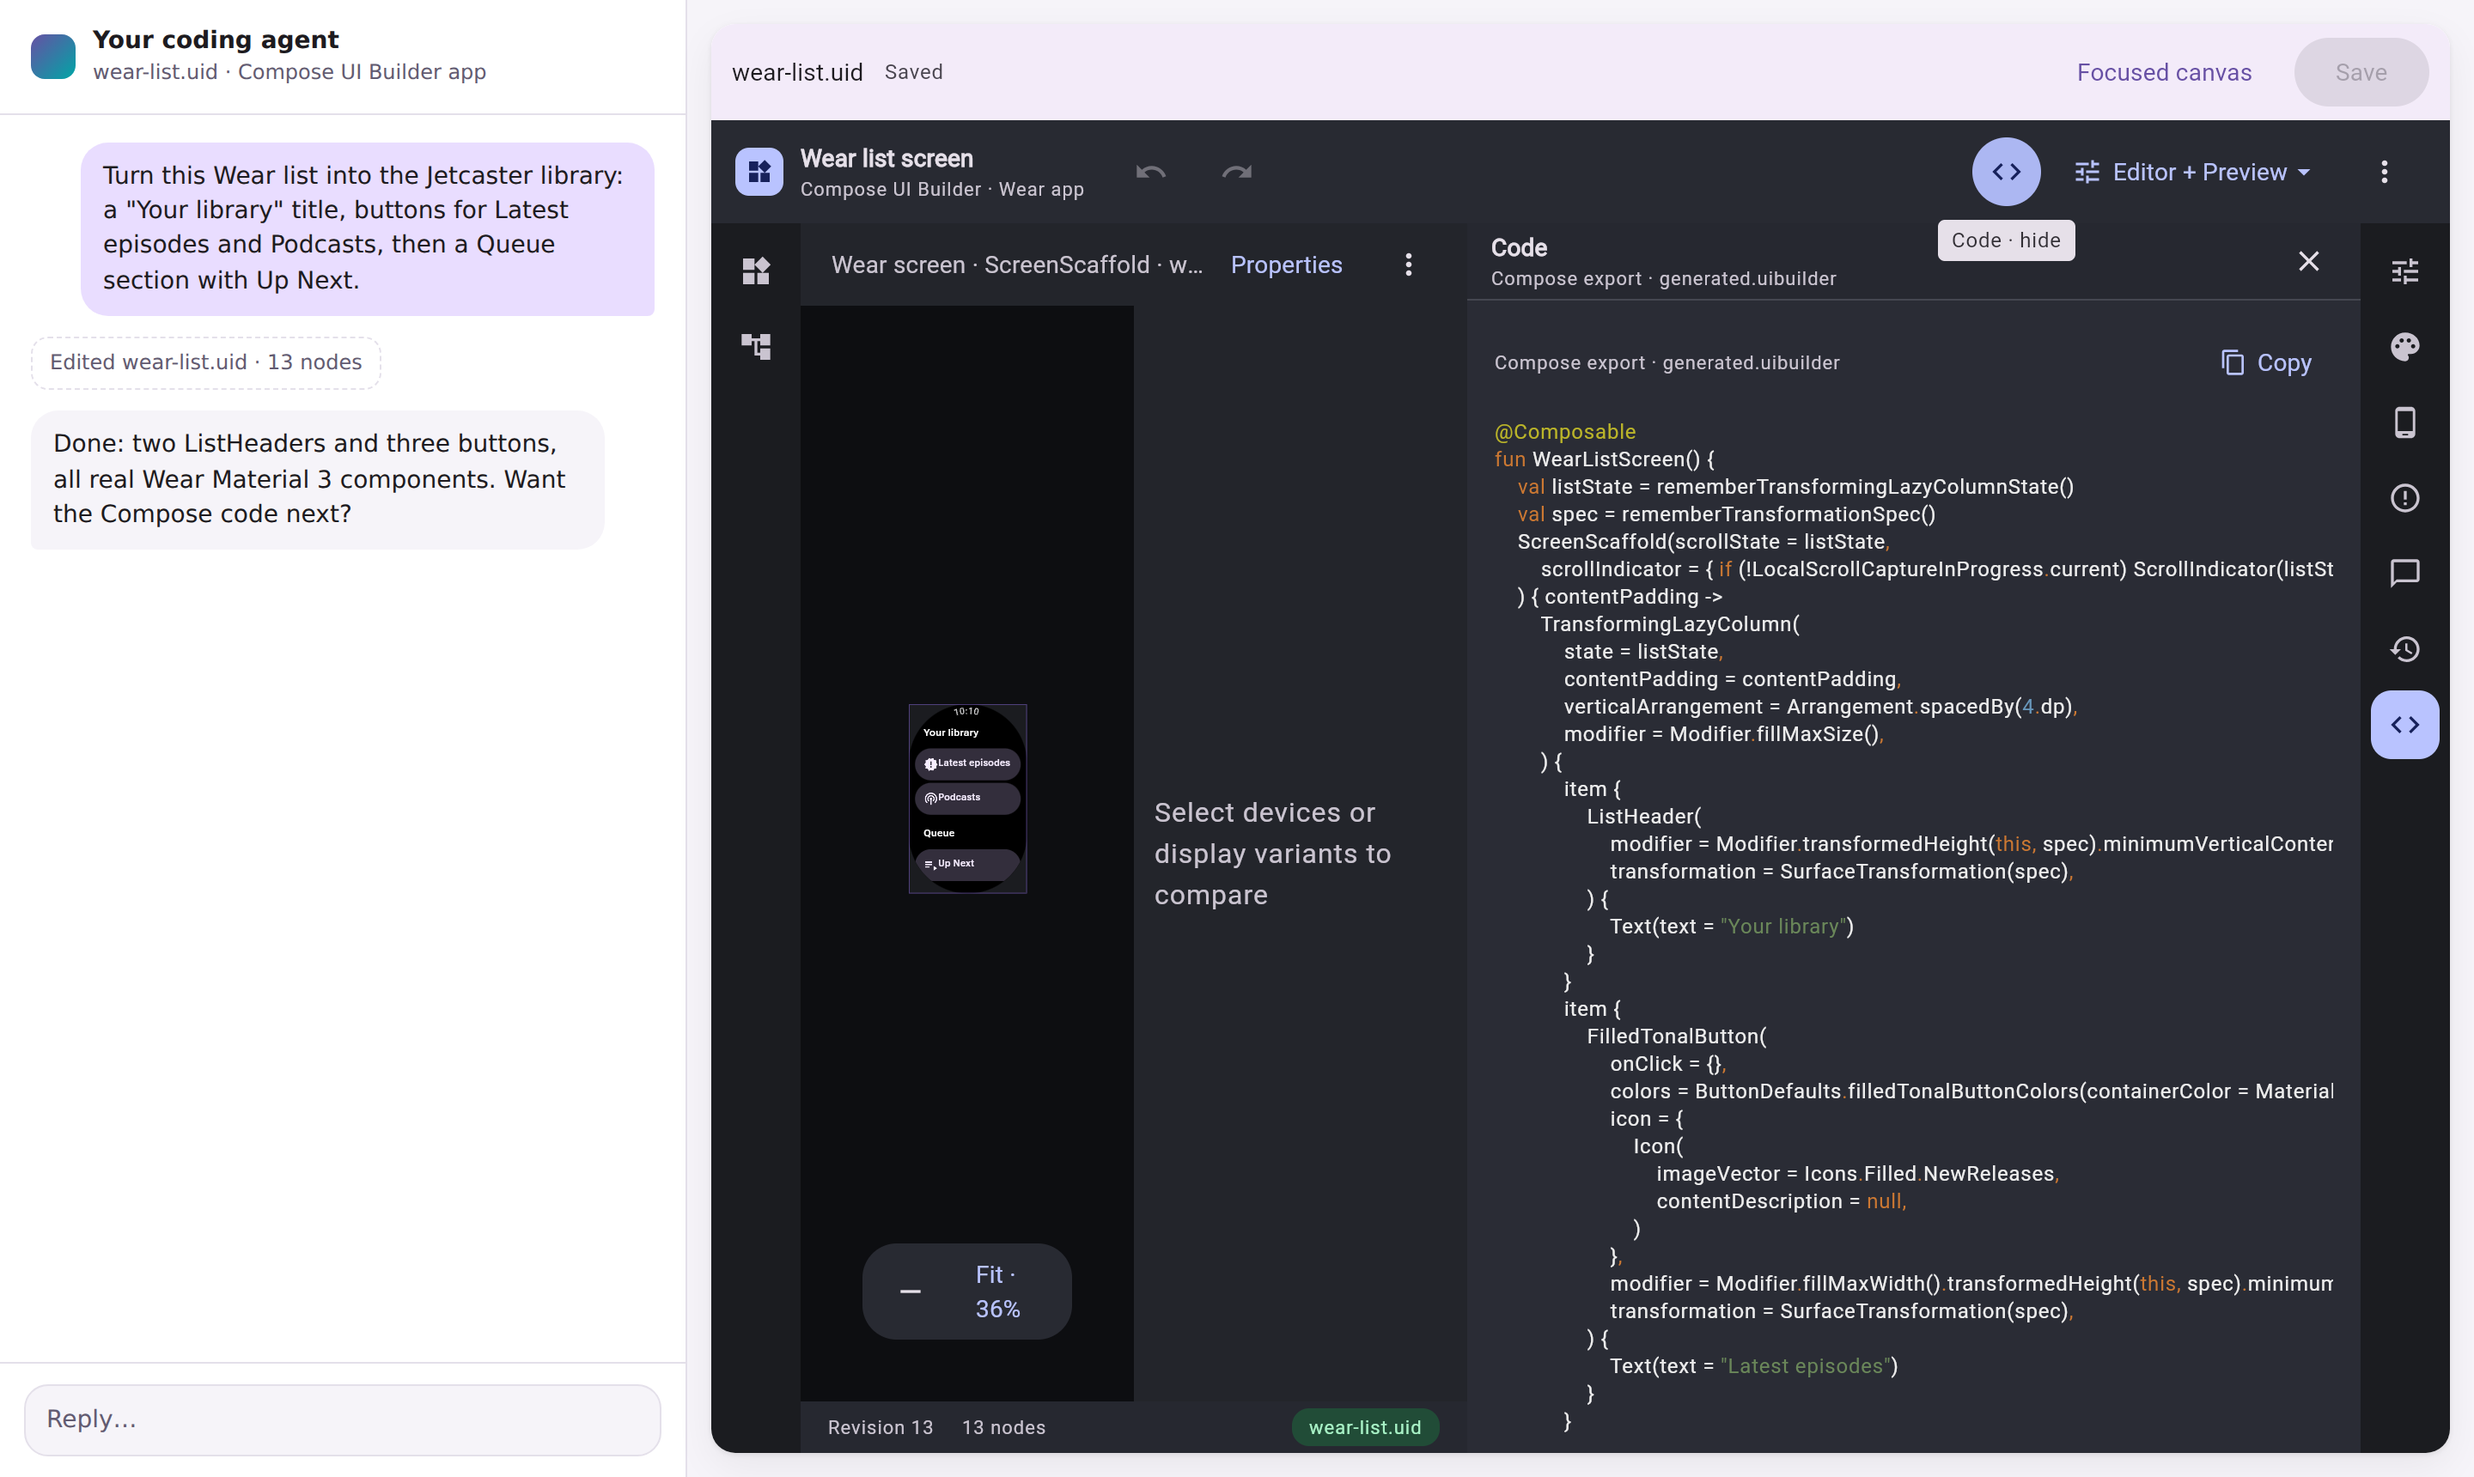
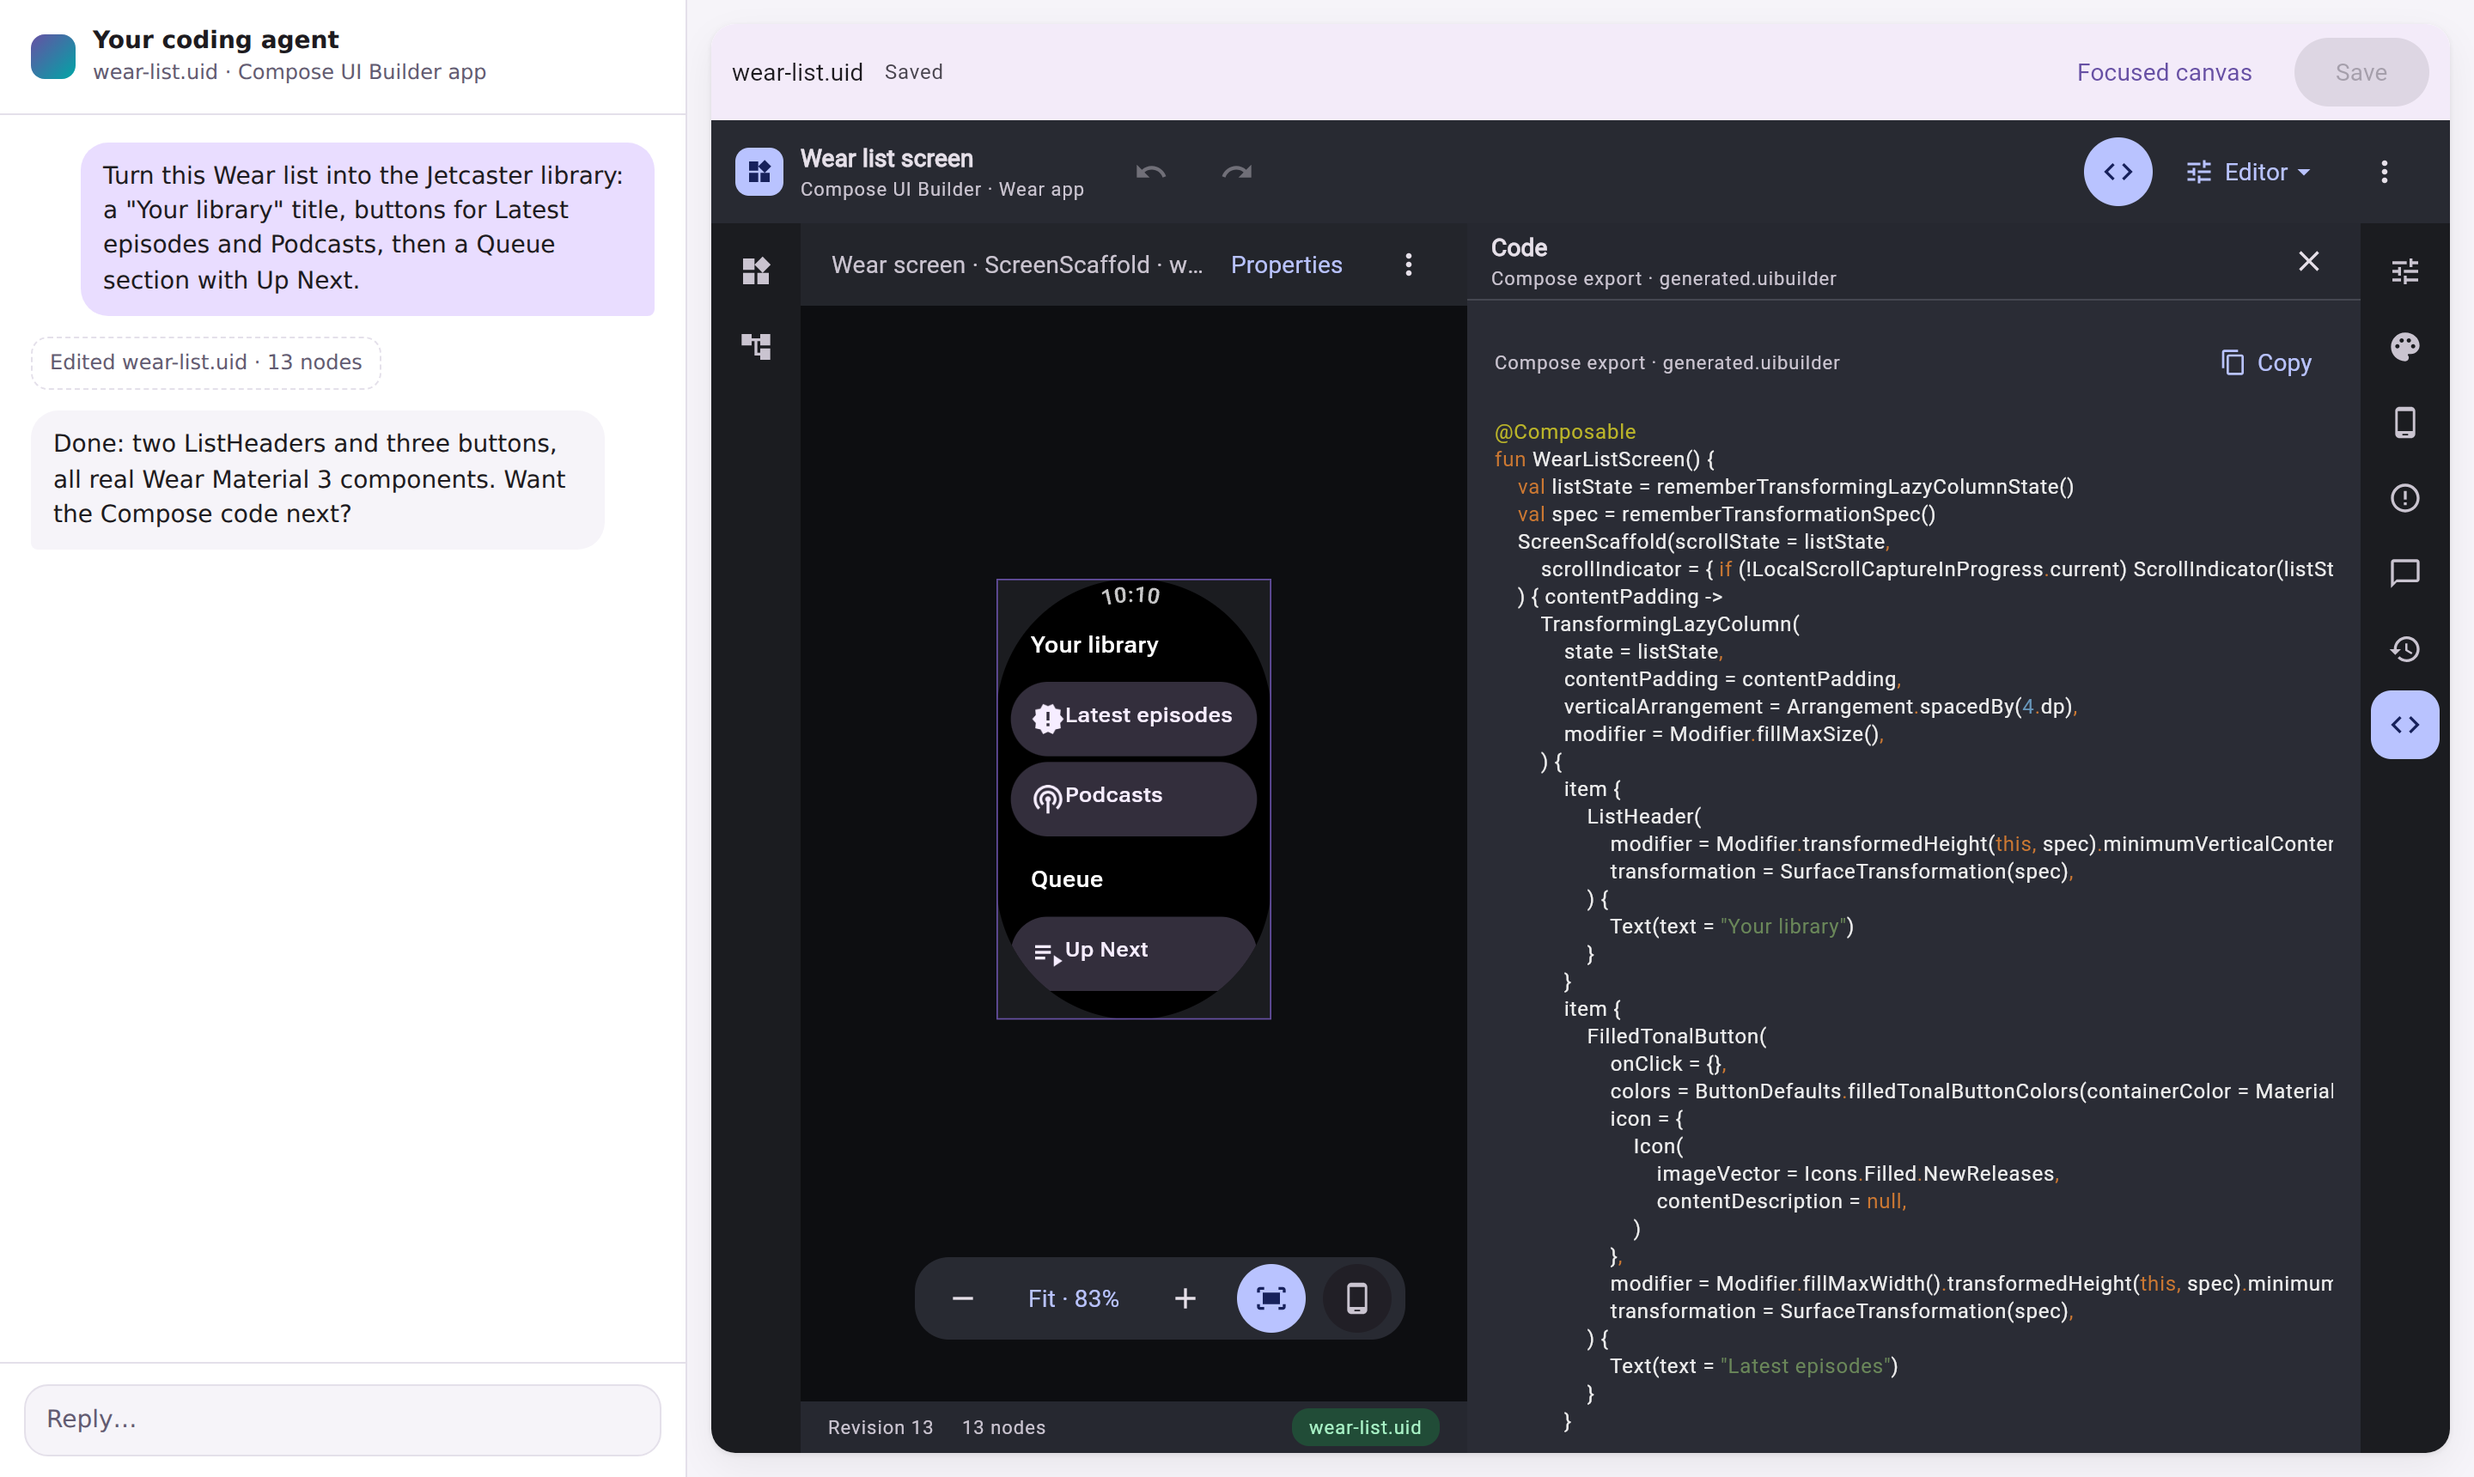
feat(site): screenshots refresh themselves; Quick edit and a roomier showcase (#426)
- site-screenshots.yml builds main's editor on every change to the editor,
  the site or the designs (and weekly), captures, and opens or updates the
  site-screenshots/refresh pull request when a picture changed. Captures are
  byte-for-byte deterministic, so it only appears when something moved.
  Pages now deploys the committed screenshots rather than re-capturing.
- Step 2 also opens Quick edit on the header, showing a property edited in
  place; the showcase turns the Preview pane off so the canvas and the code
  share the width.
- The landing page names the VS Code extension (early access).
- Wear clock: pad with an em space rather than a space. On a small round
  watch the port's curved text still truncated "10:10 " to "10:1"; above a
  font scale of 1 it needs a fix in the port itself.

Claude-Session: https://claude.ai/code/session_01RmVKgDApujVdGLzcErXRun

Changed region(s): [[0.3438, 0.1849, 0.5938, 0.9552], [0.7812, 0.0924, 0.9375, 0.1849]]

diff --git a/site/index.html b/site/index.html
@@ -44,13 +44,14 @@
         </div>
       </li>
       <li class="step">
-        <a class="shot" href="img/step-2-iterate.png"><img src="img/step-2-iterate.png" alt="A prompt in the agent chat, the updated Wear screen, and a comment on one button sent back to the chat" width="1200" height="760"></a>
+        <a class="shot" href="img/step-2-iterate.png"><img src="img/step-2-iterate.png" alt="A prompt in the agent chat, a comment on one button sent back to the chat, and Quick edit open on the header text" width="1200" height="760"></a>
         <div class="step-text">
           <span class="step-num">2</span>
           <div>
             <h3>Iterate with your agent</h3>
-            <p>Describe the screen and watch the edit land. Then right-click anything to comment,
-              and your note reaches the chat with that exact element attached.</p>
+            <p>Describe the screen and watch the edit land. Then right-click anything: comment, and
+              your note reaches the chat with that element attached, or Quick edit its properties
+              in place.</p>
           </div>
         </div>
       </li>
@@ -151,8 +152,10 @@ then a Queue section with Up Next.</code></pre>
       </li>
     </ol>
 
-    <p class="start-note">Prefer to work locally or offline? The desktop app, the IntelliJ plugin and
-      <code>compose-preview-server ui</code> keep designs as <code>.uid</code> files in your repository.
+    <p class="start-note">Prefer to work locally or offline? The desktop app, the IntelliJ plugin, the
+      <a href="https://github.com/yschimke/compose-preview-vscode">VS Code extension</a> (early access)
+      and <code>compose-preview-server ui</code> keep designs as <code>.uid</code> files in your
+      repository.
       See <a href="https://github.com/yschimke/compose-ui-builder/blob/main/docs/UI_BUILDER_GETTING_STARTED.md">running it locally</a>.</p>
   </section>
 
@@ -196,7 +199,7 @@ then a Queue section with Up Next.</code></pre>
       </article>
       <article>
         <h3>Wherever you work</h3>
-        <p>Web, a native desktop app, an IntelliJ tool window, or inside your agent's chat as an MCP App.</p>
+        <p>Web, a native desktop app, IntelliJ, VS Code, or inside your agent's chat as an MCP App.</p>
       </article>
     </div>
 
@@ -218,7 +221,7 @@ then a Queue section with Up Next.</code></pre>
       <a href="https://github.com/yschimke/compose-ui-builder">GitHub</a> ·
       <a href="https://github.com/yschimke/compose-ui-builder/releases">Releases</a> ·
       <a href="https://github.com/yschimke/compose-ui-builder/blob/main/docs/UI_BUILDER_GETTING_STARTED.md">Docs</a></p>
-    <p class="muted">Screenshots are captured automatically from the latest release.</p>
+    <p class="muted">Screenshots are captured automatically from the editor itself.</p>
   </footer>
 
   <script src="site.js"></script>

diff --git a/ui-builder/src/commonMain/kotlin/ee/schimke/composeai/uibuilder/canvas/UiBuilderRenderer.kt b/ui-builder/src/commonMain/kotlin/ee/schimke/composeai/uibuilder/canvas/UiBuilderRenderer.kt
@@ -2232,8 +2232,12 @@ private fun WearScreenScaffold(
         // `CurvedTextDelegate.doDraw` truncates when the text is more than a pixel wider than the
         // sweep the layout allotted it, and `TimeText` is allotted slightly less than its text,
         // so the last glyph was dropped: "10:10" drew "10:1". Padded, the glyph dropped is the
-        // space. Remove the pad when the port stops truncating text that fits.
-        timeTextCurvedText("$time ")
+        // pad. An em space rather than a space: on a small round watch the shortfall is wider
+        // than a space, and "10:10 " still drew "10:1". Above a font scale of 1 the shortfall
+        // outgrows any one pad, which is the port's to fix (wear-compose-foundation's
+        // `CurvedTextDelegate.truncate`). Remove the pad when the port stops truncating text
+        // that fits.
+        timeTextCurvedText("$time\u2003")
       }
     }
   }

diff --git a/site/gallery.html b/site/gallery.html
@@ -30,7 +30,7 @@
   </section>
 
   <footer class="footer">
-    <p>Screenshots are captured automatically from the latest release ·
+    <p>Screenshots are captured automatically from the editor itself ·
       <a href="https://github.com/yschimke/compose-ui-builder">GitHub</a></p>
   </footer>
 

diff --git a/site/README.md b/site/README.md
@@ -46,13 +46,17 @@ prompt; the comment in step 2 is the real `ui/message` the editor sends. The gal
 taken through `live.html` itself, so a capture also proves the live page boots.
 
 The step and hero designs claim the small, large and XL round watches as export devices, so the
-preview strip shows all three and the Compose export writes them as `@Preview(device = …)`. CI's
-`ui-builder-web-smoke` job captures the same pictures from each pull request's own editor build and
-uploads them as the `site-screenshots` artifact.
+preview strip shows all three and the Compose export writes them as `@Preview(device = …)`.
 
-The Pages workflow re-captures them on every deploy from the **latest release**, and runs weekly
-and on each published release, so the page follows the editor without commits. The copies committed
-here are the fallback if a capture fails and what a local preview shows. To refresh them:
+**They update themselves.** `.github/workflows/site-screenshots.yml` runs on every push to `main`
+that touches the editor, the site or the designs (and weekly): it builds that commit's editor,
+captures, and when a picture changed opens or updates the `site-screenshots/refresh` pull request.
+Merge it to publish them; the Pages workflow deploys the committed images as they are. Captures are
+deterministic, so that pull request only appears when something visible moved. On a pull request,
+CI's `ui-builder-web-smoke` job captures the same pictures from that pull request's editor and
+uploads them as the `site-screenshots` artifact, without committing them.
+
+To capture by hand:
 
 ```sh
 cd scripts/site-screenshots
@@ -64,10 +68,10 @@ node capture.mjs /path/to/unpacked-zip ../../site/img
 ```
 
 `SHOTS=hero,gallery/weather-widget` captures only some. If the editor's chrome moves, the click
-points in `capture.mjs` (the Screen dock and its compare chips, the code toggle, the comment menu)
+points in `capture.mjs` (the Screen dock and its compare chips, the view menu, the code toggle, the comment and Quick edit menus)
 may need adjusting. Each can be overridden from the environment while tuning, `DEBUG_SHOTS=1` saves
 the open comment menu, and `SHOTS=explore EXPLORE='x,y;x,y'` clicks through the editor saving a
-picture after each step.
+picture after each step (`EXPLORE_SCENE=chat` for step 2's focused canvas).
 
 ## Adding a gallery design
 
